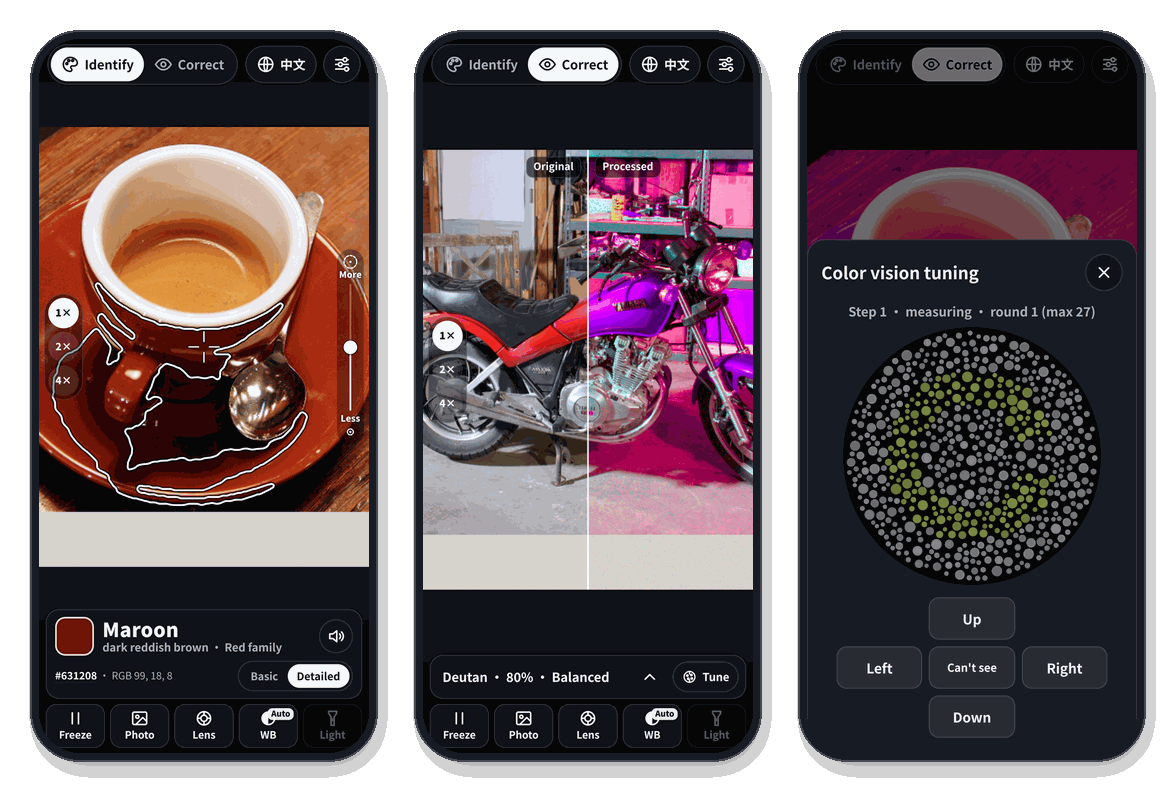
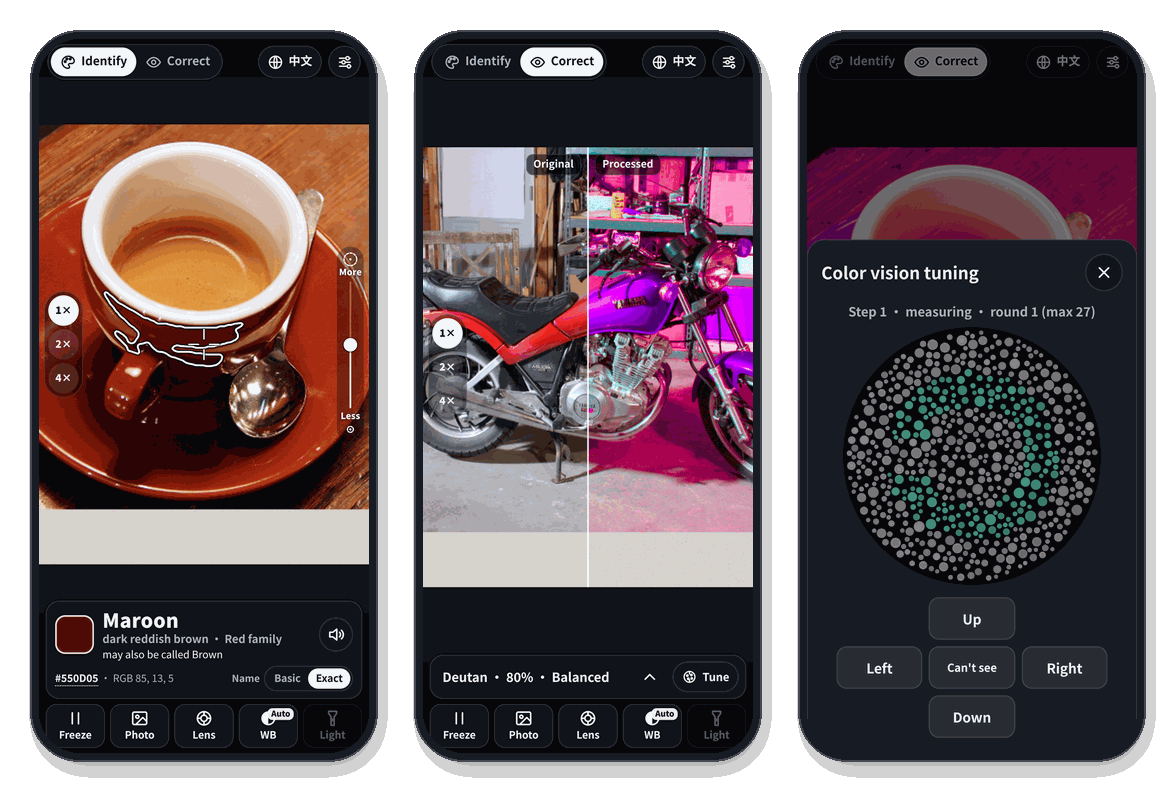
v1.3.6: smaller top bar, clearer colour-name switch (色名 大类|精确) that no longer hides RGB

diff --git a/docs/css/style.css b/docs/css/style.css
@@ -86,14 +86,22 @@ button:focus-visible, input:focus-visible { outline: 2px solid var(--focus); out
 .seg { display: inline-flex; background: var(--panel); border: 1px solid var(--line); border-radius: 999px; padding: 3px; backdrop-filter: blur(14px); -webkit-backdrop-filter: blur(14px); }
 .seg > button { display: inline-flex; align-items: center; justify-content: center; gap: 6px; padding: 8px 14px; border-radius: 999px; color: var(--muted); font-weight: 600; white-space: nowrap; }
 .seg > button[aria-selected="true"], .seg > button.on { background: var(--sel-bg); color: var(--sel-text); }
-.mode-switch > button { min-height: 40px; padding: 8px 12px; }
+.mode-switch > button { min-height: 34px; padding: 5px 11px; font-size: 14px; }
+.mode-switch .ic { width: 18px; height: 18px; }
+.topbar .icon-btn, .topbar .chip-btn { min-width: 38px; height: 38px; }
+.topbar .chip-btn { padding: 0 10px; font-size: 14px; }
+.topbar .ic { width: 19px; height: 19px; }
 .seg-wide { display: flex; width: 100%; border-radius: 12px; }
 .seg-wide > button { flex: 1; border-radius: 9px; flex-direction: column; gap: 0; padding: 7px 4px; min-height: 44px; }
 .seg-wide > button small { font-weight: 400; font-size: 11px; opacity: 0.85; }
 .seg-wide > button { min-width: 0; }
 .seg-tall > button { padding: 9px 8px; text-align: center; white-space: normal; }
 .seg-mini { flex: none; }
-.seg-mini > button { padding: 3px 11px; font-size: 12.5px; min-height: 28px; }
+.seg-mini { padding: 2px; }
+.seg-mini > button { padding: 2px 9px; font-size: 12px; min-height: 24px; }
+/* colour-name detail switch in the card: labelled so it reads "name: basic | exact" */
+.name-set { flex: none; display: flex; align-items: center; gap: 5px; }
+.name-set-lbl { font-size: 11.5px; font-weight: 700; color: var(--muted); }
 
 .icon-btn, .chip-btn {
   display: inline-flex; align-items: center; justify-content: center; gap: 6px; min-width: 44px; height: 44px;
@@ -106,7 +114,7 @@ button:focus-visible, input:focus-visible { outline: 2px solid var(--focus); out
   .topbar { padding-left: calc(var(--safe-l) + 8px); padding-right: calc(var(--safe-r) + 8px); }
 }
 .float-btn {
-  position: absolute; z-index: 5; right: calc(var(--safe-r) + 12px); top: calc(var(--safe-t) + 66px);
+  position: absolute; z-index: 5; right: calc(var(--safe-r) + 12px); top: calc(var(--safe-t) + 58px);
   display: inline-flex; align-items: center; gap: 6px; padding: 8px 12px; border-radius: 999px;
   background: var(--panel); border: 1px solid var(--line); font-size: 13px; font-weight: 600;
 }
@@ -181,7 +189,8 @@ button:focus-visible, input:focus-visible { outline: 2px solid var(--focus); out
 .alt { font-size: 13px; color: var(--muted); font-weight: 600; line-height: 1.3; margin-top: 1px; overflow: hidden; text-overflow: ellipsis; white-space: nowrap; }
 .alt:empty { display: none; }
 #card #btnSpeak { min-width: 40px; height: 40px; }
-.sub { flex: 1; font-size: 12px; color: var(--muted); font-variant-numeric: tabular-nums; line-height: 1.3; min-width: 0; overflow: hidden; text-overflow: ellipsis; white-space: nowrap; }
+.sub { flex: 1; font-size: 12px; color: var(--muted); font-variant-numeric: tabular-nums; line-height: 1.3; min-width: 0; overflow-wrap: anywhere; }
+.sub .hex, .sub .rgb { white-space: nowrap; }
 .sub .hex { color: var(--text); font-weight: 600; text-decoration: underline dotted; text-underline-offset: 3px; cursor: pointer; }
 
 .toolbar { display: flex; justify-content: space-between; gap: 6px; }

diff --git a/docs/js/main.js b/docs/js/main.js
@@ -10,7 +10,7 @@ import { Camera, cameraErrorKey, guessFacing, lensKind, frameAspect } from './ca
 import { SelfTest } from './selftest.js';
 import { reticleSVG, RETICLE_STYLES } from './reticle.js';
 
-export const APP_VERSION = '1.3.5';
+export const APP_VERSION = '1.3.6';
 const $ = (id) => document.getElementById(id);
 const app = $('app'), video = $('video'), overlay = $('overlay');
 let view = $('view');
@@ -471,7 +471,7 @@ function updateCard() {
   if (naming.alt) st.push(esc(t('card.maybe', { x: naming.alt[lang] })));
   $('colorStatus').innerHTML = st.join(' · ');
   // one line with the values only
-  $('colorSub').innerHTML = S.values ? `<span class="hex" data-hex="${hex}">${hex}</span> · RGB ${rgb.join(', ')}` : '';
+  $('colorSub').innerHTML = S.values ? `<span class="hex" data-hex="${hex}">${hex}</span> · <span class="rgb">RGB ${rgb.join(', ')}</span>` : '';
 }
 
 function speakText(text) {
@@ -1022,7 +1022,10 @@ function bind() {
   const stop = () => { delete track.dataset.drag; };
   track.addEventListener('pointerup', stop); track.addEventListener('pointercancel', stop);
 
-  const setSet = (v) => { S.set = v; save(); R.shownKey = null; syncSettingsUI(); requestAnalysis(); };
+  const setSet = (v) => {
+    if (v !== S.set) showHud(t('set.hud.' + v), 2600); // say what the switch does
+    S.set = v; save(); R.shownKey = null; syncSettingsUI(); requestAnalysis();
+  };
   document.querySelectorAll('#setSeg button').forEach((b) => b.addEventListener('click', () => setSet(b.dataset.set)));
   $('btnUpdate').addEventListener('click', checkUpdate);
   buildReticlePicker();

diff --git a/docs/js/i18n.js b/docs/js/i18n.js
@@ -14,8 +14,11 @@ export const STRINGS = {
     'err.retry': '重试',
     'mode.identify': '识色',
     'mode.correct': '矫正',
-    'set.basic': '基础',
-    'set.detailed': '精细',
+    'set.label': '色名',
+    'set.basic': '大类',
+    'set.detailed': '精确',
+    'set.hud.basic': '色名：大类——只说红、橙、黄、绿等 12 种',
+    'set.hud.detailed': '色名：精确——150 多种具体颜色名，如“枣红”“橄榄绿”',
     'card.family': '{x}系',
     'card.waiting': '正在取色…',
     'tool.freeze': '冻结',
@@ -201,8 +204,11 @@ export const STRINGS = {
     'err.retry': 'Retry',
     'mode.identify': 'Identify',
     'mode.correct': 'Correct',
+    'set.label': 'Name',
     'set.basic': 'Basic',
-    'set.detailed': 'Detailed',
+    'set.detailed': 'Exact',
+    'set.hud.basic': 'Names: basic — the 12 main colours (red, orange, yellow…)',
+    'set.hud.detailed': 'Names: exact — 150+ specific names like “Maroon”, “Olive green”',
     'card.family': '{x} family',
     'card.waiting': 'Sampling…',
     'tool.freeze': 'Freeze',

diff --git a/docs/index.html b/docs/index.html
@@ -137,9 +137,12 @@
         </div>
         <div class="card-foot">
           <div id="colorSub" class="sub"></div>
-          <div class="seg seg-mini" id="setSeg">
-            <button data-set="basic" data-i18n="set.basic"></button>
-            <button data-set="detailed" data-i18n="set.detailed"></button>
+          <div class="name-set" role="group" aria-labelledby="setLbl">
+            <span id="setLbl" class="name-set-lbl" data-i18n="set.label"></span>
+            <div class="seg seg-mini" id="setSeg">
+              <button data-set="basic" data-i18n="set.basic"></button>
+              <button data-set="detailed" data-i18n="set.detailed"></button>
+            </div>
           </div>
         </div>
       </section>

diff --git a/docs/sw.js b/docs/sw.js
@@ -1,5 +1,5 @@
 // Offline cache for the app shell. Bump VERSION when files change.
-const VERSION = 'cvh-v1.3.5';
+const VERSION = 'cvh-v1.3.6';
 const FILES = [
   './', 'index.html', 'manifest.webmanifest', 'css/style.css',
   'js/main.js', 'js/i18n.js', 'js/color.js', 'js/naming.js', 'js/cvd.js', 'js/machado.js',

diff --git a/README.en.md b/README.en.md
@@ -8,7 +8,7 @@
 
 [**Open the app →**](https://ruilin.li/AnomalousTrichromatismHelper/) &nbsp;·&nbsp; [中文](README.md)
 
-<a href="https://ruilin.li/AnomalousTrichromatismHelper/"><img src="https://img.shields.io/badge/version-1.3.5-2ea44f" alt="version 1.3.5"></a>
+<a href="https://ruilin.li/AnomalousTrichromatismHelper/"><img src="https://img.shields.io/badge/version-1.3.6-2ea44f" alt="version 1.3.6"></a>
 <img src="https://img.shields.io/badge/PWA-installable-5a0fc8" alt="PWA">
 <img src="https://img.shields.io/badge/correction-real--time_WebGL-d9480f" alt="real-time WebGL correction">
 <img src="https://img.shields.io/badge/platform-Android_%7C_iOS_15%2B-1f6feb" alt="Android / iOS 15+">
@@ -27,7 +27,7 @@
 ## What it does
 
 - **Identify**: a reticle sits in the middle of the screen (5 styles and 3 sizes; the default leaves the centre open so it does not hide what you aim at). Whatever it points at gets a color name, and the whole region of that color is outlined. Shadows, highlights and fabric texture don't break an object apart, and the region doesn't leak through thin gaps into similar colors next to it.
-- **Two color sets**: 12 basic colors (red, orange, yellow, green…), or 150+ detailed names such as “Brick red” and “Olive green”, plus a systematic description like “dark yellow-green”. Colors between two categories get a “may also be called…” hint.
+- **Two color sets**: 12 basic colors (red, orange, yellow, green…), or 150+ detailed names such as “Brick red” and “Olive green”, plus a systematic description like “dark yellow-green”. Colors between two categories get a “may also be called…” hint. Switch with “Name: Basic | Exact” at the bottom right of the color card.
 - **Real-time correction**: every pixel of the camera feed is processed on the GPU, turning the red–green differences you can't see into lightness and blue–yellow differences you can. Choose protan, deutan or tritan and a severity of 0–100 %, with a split-screen comparison.
 - **Tune**: a two-step test of about two minutes. It measures your type and severity, then blind-tests the correction with patterns below your own threshold and strengthens it if they are still not clear.
 - **Color-plate tests**: in “Strong” mode at 170–200 %, the figure in a dot plate turns bright blue on a yellow background.

diff --git a/README.md b/README.md
@@ -8,7 +8,7 @@
 
 [**在线打开 →**](https://ruilin.li/AnomalousTrichromatismHelper/) &nbsp;·&nbsp; [English](README.en.md)
 
-<a href="https://ruilin.li/AnomalousTrichromatismHelper/"><img src="https://img.shields.io/badge/%E7%89%88%E6%9C%AC-1.3.5-2ea44f" alt="版本 1.3.5"></a>
+<a href="https://ruilin.li/AnomalousTrichromatismHelper/"><img src="https://img.shields.io/badge/%E7%89%88%E6%9C%AC-1.3.6-2ea44f" alt="版本 1.3.6"></a>
 <img src="https://img.shields.io/badge/PWA-%E5%8F%AF%E5%AE%89%E8%A3%85%E5%88%B0%E4%B8%BB%E5%B1%8F%E5%B9%95-5a0fc8" alt="PWA">
 <img src="https://img.shields.io/badge/%E7%9F%AB%E6%AD%A3-WebGL_%E5%AE%9E%E6%97%B6-d9480f" alt="WebGL 实时矫正">
 <img src="https://img.shields.io/badge/%E5%B9%B3%E5%8F%B0-Android_%7C_iOS_15%2B-1f6feb" alt="Android / iOS 15+">
@@ -27,7 +27,7 @@
 ## 它能做什么
 
 - **识色**：屏幕中央有一个准星（5 种样式、3 种大小可选，默认中心留空不挡视线），对准什么就读出什么颜色，同时勾出同一种颜色的整块区域。阴影、反光、布料纹理不会把一个物体切碎，也不会顺着细缝漏到旁边相近的颜色里。
-- **两套颜色名**：基础 12 色（红、橙、黄、绿……），或 150 多个精细名称（如“砖红”“橄榄绿”），附带“深黄绿色”这类系统描述；颜色在两类之间时会提示“也可能被叫作……”。
+- **两套颜色名**：大类 12 色（红、橙、黄、绿……），或 150 多个精确名称（如“砖红”“橄榄绿”），附带“深黄绿色”这类系统描述；颜色在两类之间时会提示“也可能被叫作……”。颜色卡右下角的“色名 大类 | 精确”随时切换。
 - **实时矫正**：在 GPU 上逐像素处理摄像头画面，把你分不清的红绿差异转成你看得见的明暗和蓝黄差异。可选红色弱、绿色弱、蓝色弱三种类型和 0–100% 程度，支持分屏对比。
 - **调校**：约 2 分钟的两步小测试。先测出类型和程度，再用低于你分辨极限的图案盲测矫正效果，不够清楚就自动加强。
 - **看色盲检查图**：用“强力”模式把强度推到 170–200%，点阵图里的数字会变成黄色背景上的亮蓝色。
